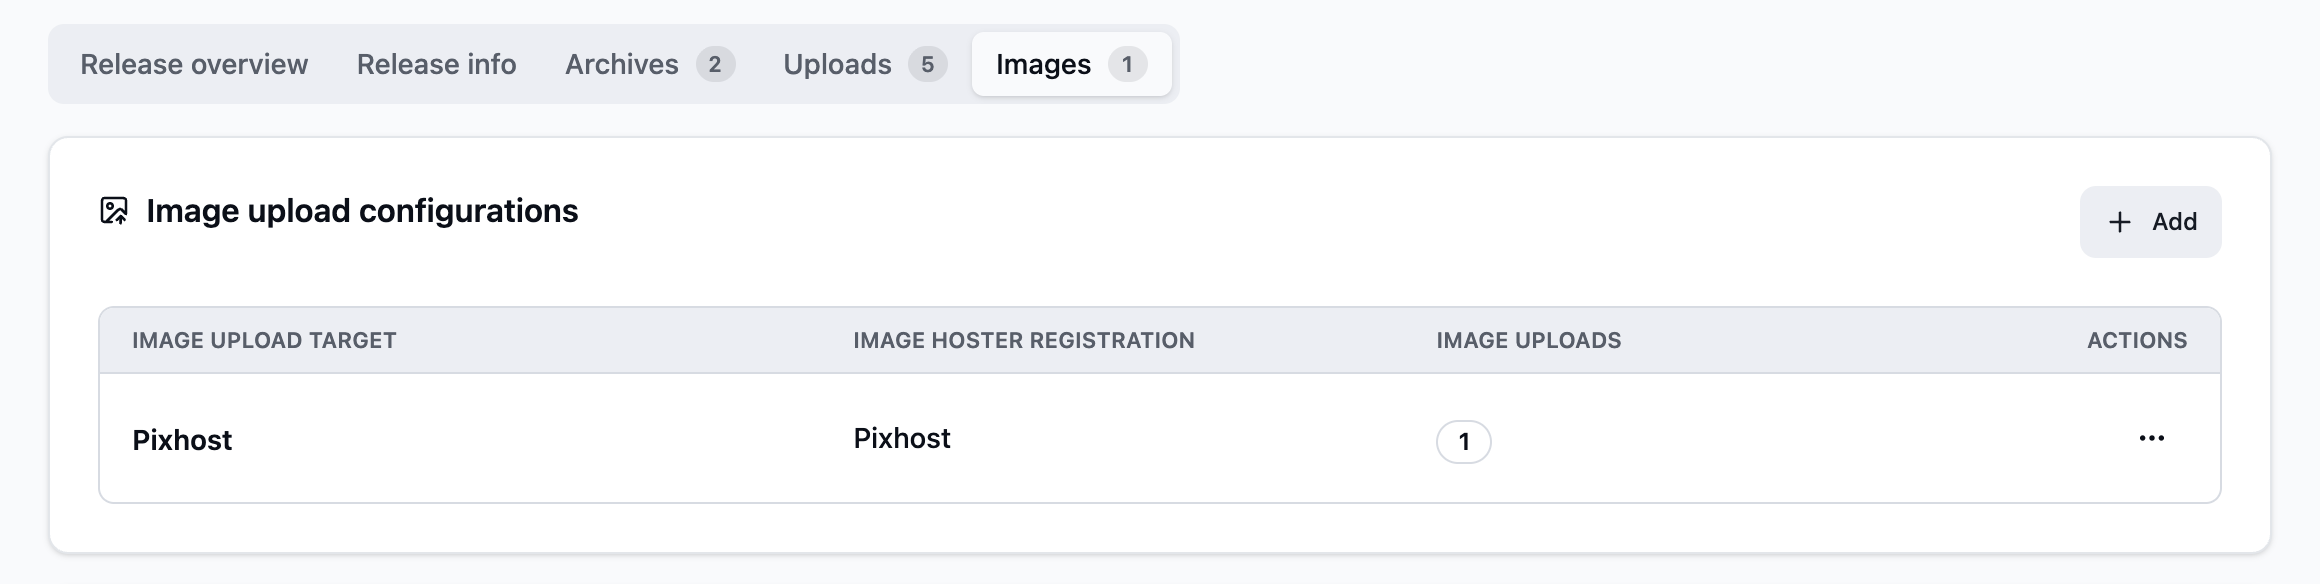
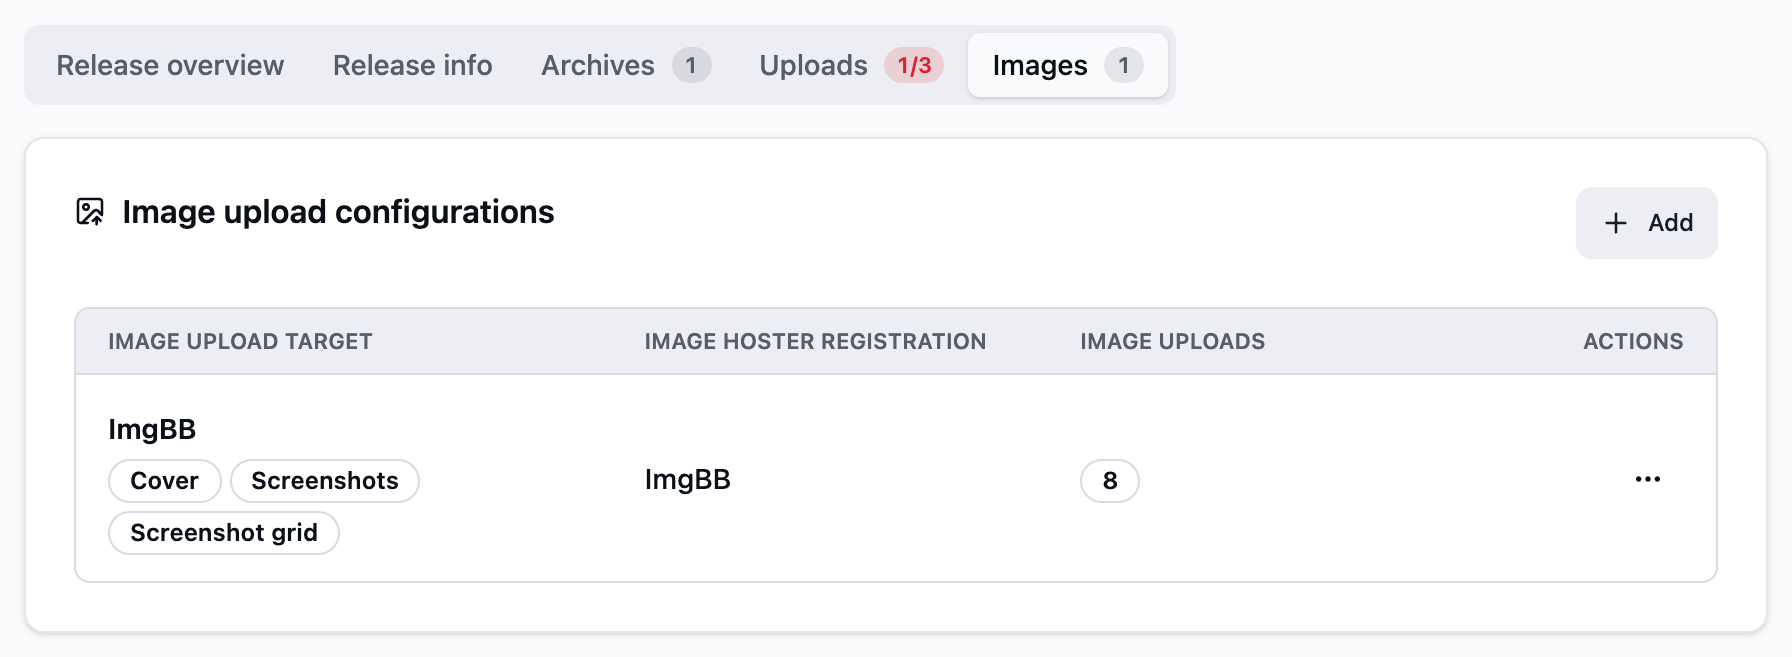
Adjust docs

diff --git a/src/Bearcat.Website/Pages/ManageImageUploadConfigs/ImageUploadConfigs.razor.cs b/src/Bearcat.Website/Pages/ManageImageUploadConfigs/ImageUploadConfigs.razor.cs
@@ -65,7 +65,7 @@ public partial class ImageUploadConfigs(
             parameters,
             new DialogOpenOptions
             {
-                Title = L["EditImageUploadConfig"],
+                Title = L["EditNamedItem", config.Name],
                 Description = L["ImageUploadConfigDialogDescription"],
                 Size = DialogSize.Large,
                 ShowClose = true,

diff --git a/website/src/content/docs/de/release-templates-and-automations.md b/website/src/content/docs/de/release-templates-and-automations.md
@@ -32,21 +32,30 @@ einer TV-Staffel. Siehe [Releasecollections](/Bearcat/de/release-collections/).
 
 ### Screenshots
 
-Die Gruppe **Screenshots** im Template und in den Releaseeinstellungen hat zwei Optionen:
+Unter **Screenshots** im Template und in den Releaseeinstellungen findest du zwei Optionen:
+
+![Screenshoteinstellungen](../images/release-screenshot-settings.png)
 
 | Option | Standard | Ergebnis |
 | --- | --- | --- |
-| **Screenshots erstellen** | Aus, 6 Screenshots | Einzelne Screenshots (1 bis 20) in gleichen Abständen. |
-| **Screenshotraster erstellen** | Aus, 4 Spalten x 4 Zeilen | Ein 1920 Pixel breites Bild mit bis zu 8 Spalten und 10 Zeilen und einer Kopfzeile mit Angaben zu Datei, Video und Audio. |
+| **Screenshots erstellen** | Aus, 6 Screenshots | 1 bis 20 einzelne Screenshots in gleichmässigen Abständen. |
+| **Screenshotraster erstellen** | Aus, 4 Spalten × 4 Zeilen | Ein 1920 Pixel breites Bild mit bis zu 8 Spalten und 10 Zeilen. Die Kopfzeile enthält Angaben zu Datei, Video und Audio. |
 
-- Nur Releases vom Typ Managed mit Releaseordner bekommen Screenshots.
+- Screenshots lassen sich nur für Releases vom Typ Managed erstellen, deren Releaseordner noch existiert.
 - Bearcat verwendet die grösste Videodatei im Releaseordner.
 - Videos mit HDR10 oder HLG werden auf SDR umgerechnet. Dolby Vision ohne Basisschicht in HDR10 oder HLG wird nicht unterstützt.
-- Die Hintergrundaufgabe **Screenshot creation** erstellt sie. ffmpeg wird [bei Bedarf heruntergeladen](/Bearcat/de/advanced-configuration/#ffmpeg).
-- Der Tab **Bilder** eines Releases zeigt das Ergebnis oder den Fehler. **Neu erstellen** erstellt sie erneut, etwa nach einer Änderung der Optionen.
-- Screenshots und das Screenshotraster werden nur erstellt, wenn eine [Bilduploadkonfiguration](/Bearcat/de/account-settings/#bilduploadkonfiguration) mit aktivem Bildhoster sie hochlädt (**Screenshots** oder **Screenshotraster**). Neu erstellen ersetzt ihre Bilduploads.
-- Forenpostvorlagen können die hochgeladenen Bilder verwenden, siehe [Screenshots in Forenpostvorlagen](/Bearcat/de/forum-post-templates/#screenshots).
-- Screenshotdateien sind temporär. Bearcat löscht sie, sobald jede passende Bilduploadkonfiguration sie hochgeladen hat, oder sofort, wenn keine Konfiguration sie mehr hochlädt. Danach zeigt der Tab **Bilder** die gehosteten Bilder. **Neu erstellen** braucht ein Release vom Typ Managed, dessen Releaseordner noch existiert.
+- Die Hintergrundaufgabe **Screenshot creation** erstellt die Bilder. ffmpeg wird [bei Bedarf heruntergeladen](/Bearcat/de/advanced-configuration/#ffmpeg).
+- Bearcat erstellt nur Bilder, für die ein Upload eingerichtet ist. Aktiviere dafür **Screenshots** oder
+  **Screenshotraster** in einer [Bilduploadkonfiguration](/Bearcat/de/account-settings/#bilduploadkonfiguration) mit aktivem Bildhoster.
+
+Im Tab **Bilder** siehst du das Ergebnis oder eine Fehlermeldung. Mit **Neu erstellen** ersetzt du die
+Screenshots und ihre Bilduploads, etwa nachdem du die Einstellungen geändert hast. Dafür muss der
+Releaseordner noch existieren und das Release vom Typ Managed sein.
+
+Du kannst die hochgeladenen Bilder in [Forenpostvorlagen verwenden](/Bearcat/de/forum-post-templates/#screenshots).
+Bearcat löscht die lokalen Screenshotdateien, sobald alle dafür eingerichteten Bilduploadkonfigurationen
+sie hochgeladen haben. Ist kein Upload mehr dafür eingerichtet, löscht es sie sofort.
+Der Tab **Bilder** zeigt danach die Bilder vom Bildhoster.
 
 ## Ordnerautomatisierungen einrichten
 

diff --git a/website/src/content/docs/release-templates-and-automations.md b/website/src/content/docs/release-templates-and-automations.md
@@ -31,21 +31,30 @@ season. See [Release Collections](/Bearcat/release-collections/).
 
 ### Screenshots
 
-The **Screenshots** group in the template and in the release settings has two options:
+Under **Screenshots** in the template and release settings, you can enable two options:
+
+![Screenshot settings](images/release-screenshot-settings.png)
 
 | Option | Default | Result |
 | --- | --- | --- |
-| **Create screenshots** | Off, 6 screenshots | Single screenshots (1 to 20) at even intervals. |
-| **Create screenshot grid** | Off, 4 columns x 4 rows | One 1920 pixel wide image with up to 8 columns and 10 rows and a header with file, video, and audio details. |
+| **Create screenshots** | Off, 6 screenshots | 1 to 20 individual screenshots at even intervals. |
+| **Create screenshot grid** | Off, 4 columns × 4 rows | An image 1920 pixels wide with up to 8 columns and 10 rows. The header contains file, video, and audio details. |
 
-- Only managed releases with their release folder get screenshots.
+- Screenshots can only be created for managed releases whose release folder still exists.
 - Bearcat uses the largest video file in the release folder.
 - HDR10 and HLG videos are tonemapped to SDR. Dolby Vision without an HDR10 or HLG base layer is not supported.
-- The **Screenshot creation** background task creates them. ffmpeg is [downloaded on demand](/Bearcat/advanced-configuration/#ffmpeg).
-- The **Images** tab of a release shows the result or the error. **Regenerate** creates them again, for example after changing the options.
-- Screenshots and the screenshot grid are only created when an [image upload configuration](/Bearcat/account-settings/#image-upload-configuration) with an active image hoster uploads them (**Screenshots** or **Screenshot grid**). Regenerating replaces their image uploads.
-- Forum post templates can use the uploaded images, see [Screenshots in forum post templates](/Bearcat/forum-post-templates/#screenshots).
-- Screenshot files are temporary. Bearcat deletes them once every matching image upload configuration has uploaded them, or right away when no configuration uploads them any more. After that the **Images** tab shows the hosted images. **Regenerate** needs a managed release whose release folder still exists.
+- The **Screenshot creation** background task creates the images. ffmpeg is [downloaded on demand](/Bearcat/advanced-configuration/#ffmpeg).
+- Bearcat only creates images configured for upload. Enable **Screenshots** or **Screenshot grid** in an
+  [image upload configuration](/Bearcat/account-settings/#image-upload-configuration) with an active image hoster.
+
+The **Images** tab shows the result or an error message. Use **Regenerate** to replace the screenshots
+and their image uploads, for example after changing the settings. The release must still be managed,
+and its release folder must exist.
+
+You can use the uploaded images in [forum post templates](/Bearcat/forum-post-templates/#screenshots).
+Bearcat deletes the local screenshot files once every image upload configuration set up for them has
+uploaded them. If no upload is configured for them any more, it deletes them immediately.
+The **Images** tab then shows the images from the image hoster.
 
 ## Setting up folder automations
 

diff --git a/website/src/content/docs/de/advanced-configuration.md b/website/src/content/docs/de/advanced-configuration.md
@@ -32,7 +32,7 @@ Standardmässig sind alle Aufgaben aktiv.
 | Auto cleanup | Alle 30 Minuten | Wendet aktivierte [Aufräumregeln](#automatisches-aufräumen) nach Ablauf ihrer Aufbewahrungsfristen an. Löscht [lokale Arbeitskopien](/Bearcat/de/archive-storage-folders/#reuploads) gespeicherter Archive, sobald ihre Uploads abgeschlossen sind. |
 | Archive upload | Alle 20 Sekunden | Lädt Archive zu den konfigurierten Hostern hoch. |
 | Image upload | Alle 30 Sekunden | Lädt Coverbilder von Releases zu konfigurierten Bildhostern hoch, wenn eine Cover-URL vorhanden ist. |
-| Screenshot creation | Jede Minute | Erstellt [Screenshots und Screenshotraster](/Bearcat/de/release-templates-and-automations/#screenshots) für Releases vom Typ Managed, bei denen sie aktiviert sind. |
+| Screenshot creation | Jede Minute | Erstellt [Screenshots und Screenshotraster](/Bearcat/de/release-templates-and-automations/#screenshots) für Releases vom Typ Managed, wenn die entsprechenden Optionen aktiv sind. |
 | Upload state check | Alle 20 Sekunden | Prüft Links und plant erste Uploads sowie automatische Reuploads. |
 | Link crypter container creation | Alle 20 Sekunden | Erstellt Linkcryptercontainer für abgeschlossene Uploads. |
 | SQLite query planner statistics | Beim Start, dann täglich | Nur mit SQLite. Aktualisiert die Statistiken, mit denen SQLite Indizes auswählt. Der erste Lauf kann bei grossen Datenbanken mehrere Sekunden dauern. |
@@ -184,17 +184,21 @@ Bei sehr niedrigen Geschwindigkeitslimits können Uploads wegen Zeitüberschreit
 
 ### ffmpeg
 
-Bearcat erstellt mit ffmpeg Screenshots und Screenshotraster aus Videodateien. ffmpeg ist nicht enthalten:
-Bearcat lädt es bei Bedarf nach `tools/ffmpeg` im [Datenverzeichnis](#datenbank) herunter.
-Die Karte **ffmpeg** am Ende der **Konfigurationen** zeigt die installierte Version und startet einen Download oder ein Update.
+Bearcat erstellt mit ffmpeg Screenshots und Screenshotraster aus Videodateien. ffmpeg wird nicht mitgeliefert.
+Bearcat lädt es bei Bedarf herunter und speichert es unter `tools/ffmpeg` im [Datenverzeichnis](#datenbank).
+Die Karte **ffmpeg** unten auf der Seite **Konfigurationen** zeigt die installierte Version.
+Dort kannst du ffmpeg herunterladen oder aktualisieren.
+
+![Karte ffmpeg](../images/ffmpeg-tool-card.png)
 
 | Plattform | Downloadquelle |
 | --- | --- |
 | Windows x64, Linux x64 (auch Docker) | [BtbN FFmpeg Builds](https://github.com/BtbN/FFmpeg-Builds) |
 | macOS mit Apple Silicon | [martin-riedl.de](https://ffmpeg.martin-riedl.de) |
 
-Setze `Media:FfmpegPath` (Umgebungsvariable `Media__FfmpegPath`), um ein eigenes ffmpeg zu verwenden.
-Andere Plattformen, etwa Linux ARM64 oder Intel-Macs, haben keinen Download und brauchen `Media:FfmpegPath`.
+Gib unter `Media:FfmpegPath` (Umgebungsvariable `Media__FfmpegPath`) den Pfad zu deiner eigenen
+Installation von ffmpeg an, wenn du diese verwenden möchtest. Auf anderen Plattformen, etwa Linux ARM64
+musst du ffmpeg selbst installieren und diesen Pfad setzen.
 
 ## Datenbank
 

diff --git a/website/src/content/docs/advanced-configuration.md b/website/src/content/docs/advanced-configuration.md
@@ -32,7 +32,7 @@ All tasks are enabled by default.
 | Auto cleanup | Every 30 minutes | Applies enabled [cleanup rules](#auto-cleanup) after their retention periods. Deletes [local working copies](/Bearcat/archive-storage-folders/#reuploads) of stored archives once their uploads have finished. |
 | Archive upload | Every 20 seconds | Uploads archives to the configured hosters. |
 | Image upload | Every 30 seconds | Uploads release cover images to configured image hosters when a cover image URL is available. |
-| Screenshot creation | Every minute | Creates [screenshots and screenshot grids](/Bearcat/release-templates-and-automations/#screenshots) for managed releases that have them enabled. |
+| Screenshot creation | Every minute | Creates [screenshots and screenshot grids](/Bearcat/release-templates-and-automations/#screenshots) for managed releases when the corresponding options are enabled. |
 | Upload state check | Every 20 seconds | Checks links and schedules first uploads and automatic reuploads. |
 | Link crypter container creation | Every 20 seconds | Creates link crypter containers for completed uploads. |
 | SQLite query planner statistics | At startup, then daily | Only with SQLite. Updates the statistics SQLite uses to choose indexes. The first run on a large database can take several seconds. |
@@ -182,17 +182,21 @@ Very low speed limits can cause uploads to time out.
 
 ### ffmpeg
 
-Bearcat uses ffmpeg to create screenshots and screenshot grids from video files. ffmpeg is not bundled:
-Bearcat downloads it on demand into `tools/ffmpeg` in the [data directory](#database).
-The **ffmpeg** card at the end of **Configurations** shows the installed version and starts a download or update.
+Bearcat uses ffmpeg to create screenshots and screenshot grids from video files. ffmpeg is not bundled.
+Bearcat downloads it when needed and stores it in `tools/ffmpeg` in the [data directory](#database).
+The **ffmpeg** card at the bottom of **Configurations** shows the installed version.
+You can download or update ffmpeg there.
+
+![ffmpeg card](images/ffmpeg-tool-card.png)
 
 | Platform | Download source |
 | --- | --- |
 | Windows x64, Linux x64 (including Docker) | [BtbN FFmpeg builds](https://github.com/BtbN/FFmpeg-Builds) |
 | macOS Apple silicon | [martin-riedl.de](https://ffmpeg.martin-riedl.de) |
 
-Set `Media:FfmpegPath` (environment variable `Media__FfmpegPath`) to use your own ffmpeg instead.
-Other platforms, such as Linux ARM64 or Intel Macs, have no download and need `Media:FfmpegPath`.
+To use your own ffmpeg installation, set `Media:FfmpegPath` (environment variable `Media__FfmpegPath`)
+to its path. On other platforms, such as Linux ARM64, you must install ffmpeg yourself
+and set this path.
 
 ## Database
 

diff --git a/website/src/content/docs/account-settings.md b/website/src/content/docs/account-settings.md
@@ -24,23 +24,25 @@ the required credentials.
 
 ## Image upload configuration
 
-On a release's **Images** tab, click **Add** under **Image upload configurations**. Choose a name, the image
-hoster registration, and what to upload:
+On a release's **Images** tab, click **Add** under **Image upload configurations**. Choose a name and an
+image hoster registration. Then choose which images Bearcat should upload:
+
+![Image upload configuration](images/image-upload-config-dialog.png)
 
 | Option | Default | Uploads |
 | --- | --- | --- |
 | **Cover** | On | The cover, once a cover URL is available. |
-| **Screenshots** | Off | Every single [screenshot](/Bearcat/release-templates-and-automations/#screenshots) of the release. |
+| **Screenshots** | Off | The release's individual [screenshots](/Bearcat/release-templates-and-automations/#screenshots). |
 | **Screenshot grid** | Off | The screenshot grid of the release. |
 
-At least one option must be on. Screenshots are uploaded once they have been created.
-Collection image upload configurations always upload the cover only.
+Enable at least one option. Screenshots are uploaded once they have been created.
+Image upload configurations for collections only upload the cover.
 
 The name is also used in [forum post templates](/Bearcat/forum-post-templates/).
-For example, access the cover of a configuration named `ImgBB Cover` with `imagelinks.imgbb_cover.full`.
+For a configuration named `ImgBB Cover`, use `imagelinks.imgbb_cover.full` to access the cover.
 
-Releases and collections enter the [post queue](/Bearcat/post-queue/) only when no image upload is pending
-or uploading. Failed image uploads do not block posting. Delete a failed upload on the **Images** tab to retry it.
+Releases and collections enter the [post queue](/Bearcat/post-queue/) once no image uploads are pending
+or running. Failed image uploads do not block posting. Delete a failed upload on the **Images** tab to retry it.
 
 ## Automatic reuploads
 

diff --git a/website/src/content/docs/de/account-settings.md b/website/src/content/docs/de/account-settings.md
@@ -26,23 +26,25 @@ Wähle den Hoster und gib die nötigen Zugangsdaten ein.
 ## Bilduploadkonfiguration
 
 Klicke im Tab **Bilder** eines Releases unter **Bilduploadkonfigurationen** auf **Hinzufügen**. Wähle einen
-Namen, die Bildhosterregistrierung und was hochgeladen wird:
+Namen und eine Bildhosterregistrierung. Wähle dann, welche Bilder Bearcat hochladen soll:
+
+![Bilduploadkonfiguration](../images/image-upload-config-dialog.png)
 
 | Option | Standard | Lädt hoch |
 | --- | --- | --- |
 | **Cover** | An | Das Cover, sobald eine Cover-URL vorhanden ist. |
-| **Screenshots** | Aus | Alle einzelnen [Screenshots](/Bearcat/de/release-templates-and-automations/#screenshots) des Releases. |
+| **Screenshots** | Aus | Die einzelnen [Screenshots](/Bearcat/de/release-templates-and-automations/#screenshots) des Releases. |
 | **Screenshotraster** | Aus | Das Screenshotraster des Releases. |
 
 Mindestens eine Option muss aktiv sein. Screenshots werden hochgeladen, sobald sie erstellt wurden.
 Bilduploadkonfigurationen von Collections laden immer nur das Cover hoch.
 
 Der Name wird auch in [Forenpostvorlagen](/Bearcat/de/forum-post-templates/) verwendet.
-Mit `ImgBB Cover` greifst du zum Beispiel über `imagelinks.imgbb_cover.full` auf das Cover zu.
+Heisst die Konfiguration `ImgBB Cover`, greifst du über `imagelinks.imgbb_cover.full` auf das Cover zu.
 
 Releases und Collections kommen erst in die [Postwarteschlange](/Bearcat/de/post-queue/), wenn kein Bildupload
 mehr wartet oder läuft. Fehlgeschlagene Bilduploads blockieren das Posten nicht. Lösche einen fehlgeschlagenen
-Upload im Tab **Bilder**, um ihn erneut zu versuchen.
+Upload im Tab **Bilder**, um ihn erneut zu starten.
 
 ## Automatische Reuploads
 

diff --git a/website/src/content/docs/de/release-detail-page.md b/website/src/content/docs/de/release-detail-page.md
@@ -28,6 +28,11 @@ Klicke auf einen Schritt, um den passenden Tab zu öffnen.
 **Alle Links kopieren** kopiert die Containerlinks eines Linkcrypters für alle Hoster.
 Unten findest du die [Veröffentlichungsorte](/Bearcat/de/posting-to-forums/#veröffentlichungsorte).
 
+Unter **Bilduploads** siehst du pro Bilduploadkonfiguration das Cover und eine Vorschau der Screenshots.
+Mit den Kopierbuttons kopierst du die Bildlinks.
+
+![Bilduploads in der Übersicht](../images/overview-image-uploads.png)
+
 ## Releaseinfo
 
 ![Tab Releaseinfo](../images/release-infos-tab.png)
@@ -61,10 +66,14 @@ verwendet, folgt dem Namen **lokale Arbeitskopie**.
 
 ![Konfiguration für Bilduploads](../images/image-upload-config.png)
 
-Für Coveruploads braucht das Release eine Cover-URL, etwa von TMDB oder xREL. Eine [Bilduploadkonfiguration](/Bearcat/de/account-settings/#bilduploadkonfiguration)
-kann auch die Screenshots und das Screenshotraster hochladen. Die Liste **Bilduploads** zeigt bei jedem Upload, ob es das Cover, ein Screenshot oder das Screenshotraster ist.
+Für Coveruploads braucht das Release eine Cover-URL, etwa von TMDB oder xREL.
+Eine [Bilduploadkonfiguration](/Bearcat/de/account-settings/#bilduploadkonfiguration) kann auch Screenshots
+und das Screenshotraster hochladen. In der Liste **Bilduploads** siehst du den Bildtyp jedes Uploads:
+Cover, Screenshot oder Screenshotraster.
 
 Die Karte **Screenshots** zeigt die erstellten [Screenshots](/Bearcat/de/release-templates-and-automations/#screenshots).
 Klicke auf ein Bild, um es in voller Grösse zu öffnen.
+
+![Karte Screenshots](../images/release-screenshots.png)
 
 ![Bilduploads](../images/image-uploads.png)

diff --git a/website/src/content/docs/release-detail-page.md b/website/src/content/docs/release-detail-page.md
@@ -28,6 +28,11 @@ Click a step to open its tab.
 **Copy all links** copies one link crypter's container links for all hosters.
 [Posted locations](/Bearcat/posting-to-forums/#posted-locations) are listed at the bottom.
 
+Under **Image uploads**, each image upload configuration shows its cover and screenshot previews.
+Use the copy buttons to copy the image links.
+
+![overview-image-uploads.png](images/overview-image-uploads.png)
+
 ## Release info
 
 ![release-infos-tab.png](images/release-infos-tab.png)
@@ -61,10 +66,14 @@ the name is followed by **local working copy**.
 
 ![image-upload-config.png](images/image-upload-config.png)
 
-Cover uploads need a cover URL, for example from TMDB or xREL. An [image upload configuration](/Bearcat/account-settings/#image-upload-configuration)
-can also upload the screenshots and the screenshot grid. The **Image uploads** list shows for each upload whether it is the cover, a screenshot, or the screenshot grid.
+Cover uploads need a cover URL, for example from TMDB or xREL.
+An [image upload configuration](/Bearcat/account-settings/#image-upload-configuration) can also upload
+screenshots and the screenshot grid. The **Image uploads** list shows each upload's image type:
+cover, screenshot, or screenshot grid.
 
 The **Screenshots** card shows the created [screenshots](/Bearcat/release-templates-and-automations/#screenshots).
-Click an image to open it in full size.
+Click an image to open it at full size.
+
+![release-screenshots.png](images/release-screenshots.png)
 
 ![image-uploads.png](images/image-uploads.png)

diff --git a/website/src/content/docs/de/forum-post-templates.md b/website/src/content/docs/de/forum-post-templates.md
@@ -149,16 +149,16 @@ Bei Videouploads sind `upload.archive_format` und `upload.archive_password` leer
 
 ### Screenshots
 
-Hochgeladene [Screenshots](/Bearcat/de/release-templates-and-automations/#screenshots) stehen in
-Releasevorlagen und in `release.imagelinks` von Collectionvorlagen zur Verfügung, neben den
-Coverlinks jeder Bilduploadkonfiguration:
+Auf hochgeladene [Screenshots](/Bearcat/de/release-templates-and-automations/#screenshots) greifst du
+wie auf Coverlinks zu: in Releasevorlagen über `imagelinks`, in Collectionvorlagen über `release.imagelinks`.
+Jede Bilduploadkonfiguration hat dafür diese Felder:
 
-- `imagelinks.<name>.screenshots`: eine Liste der hochgeladenen Screenshots, nach Nummer sortiert.
-  Jeder Eintrag hat `full`, `medium` und `thumbnail` (die Grössen, die der Bildhoster liefert),
-  `index` (ab 1) und `timestamp` (Videoposition als `hh:mm:ss`). Die Liste ist leer, solange nichts
-  hochgeladen ist.
+- `imagelinks.<name>.screenshots`: die hochgeladenen Screenshots, nach Nummer sortiert.
+  Jeder Eintrag enthält die Bildlinks `full`, `medium` und `thumbnail` in den Grössen des Bildhosters.
+  `index` gibt die Nummer ab 1 an, `timestamp` die Videoposition als `hh:mm:ss`.
+  Die Liste bleibt leer, bis der erste Screenshot hochgeladen ist.
 - `imagelinks.<name>.screenshotgrid`: das Screenshotraster mit `full`, `medium` und `thumbnail`.
-  Leer, solange das Raster nicht hochgeladen ist.
+  Das Feld bleibt leer, bis das Raster hochgeladen ist.
 
 ```text
 {{~ for screenshot in imagelinks.pixhost.screenshots ~}}

diff --git a/website/src/content/docs/forum-post-templates.md b/website/src/content/docs/forum-post-templates.md
@@ -149,15 +149,16 @@ For video uploads, `upload.archive_format` and `upload.archive_password` are emp
 
 ### Screenshots
 
-Uploaded [screenshots](/Bearcat/release-templates-and-automations/#screenshots) are available in
-release templates and in `release.imagelinks` of collection templates, next to the cover links of
-each image upload configuration:
+Access uploaded [screenshots](/Bearcat/release-templates-and-automations/#screenshots) like cover links:
+use `imagelinks` in release templates and `release.imagelinks` in collection templates.
+Each image upload configuration has these fields:
 
-- `imagelinks.<name>.screenshots`: a list of the uploaded screenshots, ordered by number. Each entry
-  has `full`, `medium` and `thumbnail` (the sizes the image hoster returns), `index` (starting at 1)
-  and `timestamp` (video position as `hh:mm:ss`). The list is empty while nothing is uploaded.
+- `imagelinks.<name>.screenshots`: the uploaded screenshots, sorted by number.
+  Each entry contains the image links `full`, `medium` and `thumbnail` in the sizes the image hoster provides.
+  `index` is the number starting at 1, and `timestamp` is the video position as `hh:mm:ss`.
+  The list stays empty until the first screenshot is uploaded.
 - `imagelinks.<name>.screenshotgrid`: the screenshot grid with `full`, `medium` and `thumbnail`.
-  Empty while the grid is not uploaded.
+  The field stays empty until the grid is uploaded.
 
 ```text
 {{~ for screenshot in imagelinks.pixhost.screenshots ~}}

diff --git a/website/src/content/docs/de/post-queue.md b/website/src/content/docs/de/post-queue.md
@@ -23,8 +23,8 @@ Sind alle Einträge erledigt, verschwindet das Badge.
 Ein Release erscheint in der Warteschlange, sobald es einen fertigen Upload hat, den du nicht als gepostet
 markiert hast. Bearcat betrachtet pro Uploadkonfiguration den neuesten fertigen Upload. Ältere Uploads werden nicht einzeln aufgeführt.
 
-Vorher müssen die Bilduploads erledigt sein: Kein Bildupload darf warten oder laufen, und Screenshots, die eine
-Konfiguration hochlädt, müssen erstellt und hochgeladen sein. Fehlgeschlagene Bilduploads blockieren die Warteschlange nicht.
+Bearcat wartet, bis keine Bilduploads mehr ausstehen oder laufen. Sollen Screenshots hochgeladen werden,
+wartet es auch auf deren Erstellung und Upload. Fehlgeschlagene Bilduploads blockieren die Warteschlange nicht.
 
 Die Warteschlange hat zwei Bereiche:
 
